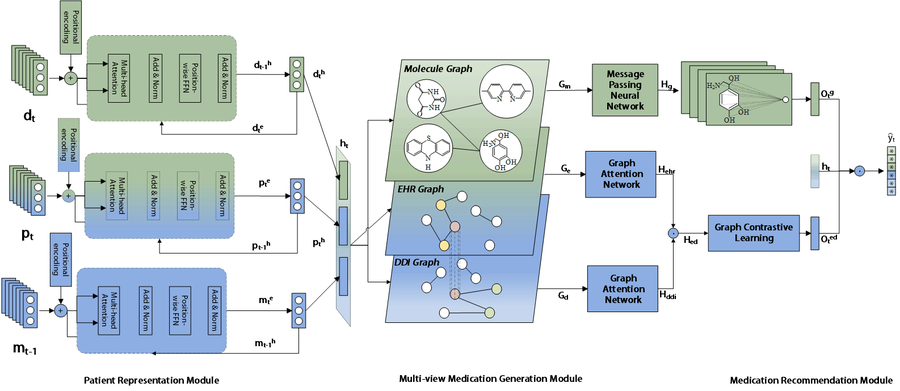
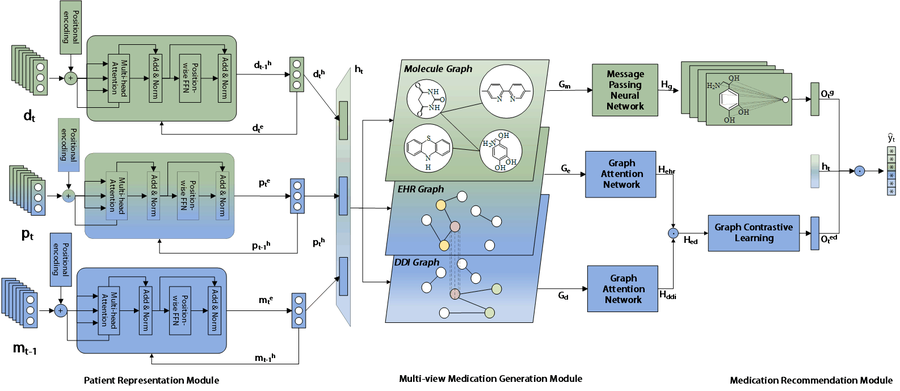
Correct the DNMDR author list, drop the figure frames and click links, refresh the ENCMed figure, and mark DG-MRM as Rank 1

diff --git a/publications/index.html b/publications/index.html
@@ -68,13 +68,12 @@
       </header>
       <section class="page__content" itemprop="text">
 <p>Journal and workshop papers, plus one manuscript currently under
-review. My name appears in bold in the author lists below; click a figure to see it full size.</p>
+review. My name appears in bold in the author lists below.</p>
 
 <h2>Peer-Reviewed Publications</h2>
 <div class="pub pub--with-fig">
   <div class="pub__fig">
-    <a href="../images/CLEAR_model.png" target="_blank" rel="noopener"><img src="../images/CLEAR_model.png"
-      alt="CLEAR model architecture" loading="lazy" /></a>
+    <img src="../images/CLEAR_model.png" alt="CLEAR model architecture" loading="lazy" />
   </div>
   <div class="pub__body">
     <div class="pub__title">CLEAR: Prototype-conditioned flow purification for LLM-based rumor detection with Dirichlet evidential learning</div>
@@ -84,19 +83,17 @@ review. My name appears in bold in the author lists below; click a figure to see
 </div>
 <div class="pub pub--with-fig">
   <div class="pub__fig">
-    <a href="../images/DNMDR_model.png" target="_blank" rel="noopener"><img src="../images/DNMDR_model.png"
-      alt="DNMDR model architecture" loading="lazy" /></a>
+    <img src="../images/DNMDR_model.png" alt="DNMDR model architecture" loading="lazy" />
   </div>
   <div class="pub__body">
     <div class="pub__title">DNMDR: Dynamic Networks and Multi-view Drug Representations for Safe Medication Recommendation <span class="badge-pill badge-pill--alt">first author</span></div>
-    <div class="pub__authors"><strong>G. Liu</strong>, Z. Liu, X. Yu, X. Li, X. Zheng, X. Fan</div>
+    <div class="pub__authors"><strong>G. Liu</strong>, X. Yu, Z. Liu, S. Liu, X. Li, X. Fan, X. Zheng</div>
     <div class="pub__venue"><em>Knowledge-Based Systems</em> <span class="badge-pill">IF 8.0</span>, 2025. <span class="pub__links">[<a href="https://doi.org/10.1016/j.knosys.2025.114327">DOI</a>]</span></div>
   </div>
 </div>
 <div class="pub pub--with-fig">
   <div class="pub__fig">
-    <a href="../images/ESWA_model.png" target="_blank" rel="noopener"><img src="../images/ESWA_model.png"
-      alt="Transformer-based medication recommendation with a multiple graph augmentation strategy model architecture" loading="lazy" /></a>
+    <img src="../images/ESWA_model.png" alt="Transformer-based medication recommendation with a multiple graph augmentation strategy model architecture" loading="lazy" />
   </div>
   <div class="pub__body">
     <div class="pub__title">Transformer-based medication recommendation with a multiple graph augmentation strategy <span class="badge-pill badge-pill--alt">co-author</span></div>
@@ -106,20 +103,18 @@ review. My name appears in bold in the author lists below; click a figure to see
 </div>
 <div class="pub pub--with-fig">
   <div class="pub__fig">
-    <a href="../images/DGMRM_poster.jpg" target="_blank" rel="noopener"><img src="../images/DGMRM_poster.jpg"
-      alt="DG-MRM model architecture" loading="lazy" /></a>
+    <img src="../images/DGMRM_poster.jpg" alt="DG-MRM model architecture" loading="lazy" />
   </div>
   <div class="pub__body">
     <div class="pub__title">DG-MRM: Dynamic Graph and Multi-view Medication Information for Recommending Medication Combination <span class="badge-pill badge-pill--alt">first author</span></div>
     <div class="pub__authors"><strong>G. Liu</strong>, Z. Liu, X. Yu, X. Li, X. Zheng, X. Fan</div>
-    <div class="pub__venue"><em>KDD-AIDSH</em>, 2024. <span class="pub__links">[<a href="https://openreview.net/forum?id=hdE8YZIAjw">OpenReview</a>]</span></div>
+    <div class="pub__venue"><em>KDD-AIDSH</em>, 2024. <span class="pub__rank">(Rank 1)</span> <span class="pub__links">[<a href="https://openreview.net/forum?id=hdE8YZIAjw">OpenReview</a>]</span></div>
   </div>
 </div>
 <h2>Under Review</h2>
 <div class="pub pub--with-fig">
   <div class="pub__fig">
-    <a href="../images/ENCMed_model.png" target="_blank" rel="noopener"><img src="../images/ENCMed_model.png"
-      alt="ENCMed model architecture" loading="lazy" /></a>
+    <img src="../images/ENCMed_model.png" alt="ENCMed model architecture" loading="lazy" />
   </div>
   <div class="pub__body">
     <div class="pub__title">ENCMed: A 3D-Encoder Framework with Neighbor Contrastive Learning for Safe Medication Recommendation <span class="badge-pill badge-pill--alt">first author</span></div>

diff --git a/cv/index.html b/cv/index.html
@@ -96,8 +96,7 @@ version</a></p>
 <h2>Publications</h2>
 <div class="pub pub--with-fig">
   <div class="pub__fig">
-    <a href="../images/ENCMed_model.png" target="_blank" rel="noopener"><img src="../images/ENCMed_model.png"
-      alt="ENCMed model architecture" loading="lazy" /></a>
+    <img src="../images/ENCMed_model.png" alt="ENCMed model architecture" loading="lazy" />
   </div>
   <div class="pub__body">
     <div class="pub__title">ENCMed: A 3D-Encoder Framework with Neighbor Contrastive Learning for Safe Medication Recommendation <span class="badge-pill badge-pill--alt">first author</span></div>
@@ -107,8 +106,7 @@ version</a></p>
 </div>
 <div class="pub pub--with-fig">
   <div class="pub__fig">
-    <a href="../images/CLEAR_model.png" target="_blank" rel="noopener"><img src="../images/CLEAR_model.png"
-      alt="CLEAR model architecture" loading="lazy" /></a>
+    <img src="../images/CLEAR_model.png" alt="CLEAR model architecture" loading="lazy" />
   </div>
   <div class="pub__body">
     <div class="pub__title">CLEAR: Prototype-conditioned flow purification for LLM-based rumor detection with Dirichlet evidential learning</div>
@@ -118,19 +116,17 @@ version</a></p>
 </div>
 <div class="pub pub--with-fig">
   <div class="pub__fig">
-    <a href="../images/DNMDR_model.png" target="_blank" rel="noopener"><img src="../images/DNMDR_model.png"
-      alt="DNMDR model architecture" loading="lazy" /></a>
+    <img src="../images/DNMDR_model.png" alt="DNMDR model architecture" loading="lazy" />
   </div>
   <div class="pub__body">
     <div class="pub__title">DNMDR: Dynamic Networks and Multi-view Drug Representations for Safe Medication Recommendation <span class="badge-pill badge-pill--alt">first author</span></div>
-    <div class="pub__authors"><strong>G. Liu</strong>, Z. Liu, X. Yu, X. Li, X. Zheng, X. Fan</div>
+    <div class="pub__authors"><strong>G. Liu</strong>, X. Yu, Z. Liu, S. Liu, X. Li, X. Fan, X. Zheng</div>
     <div class="pub__venue"><em>Knowledge-Based Systems</em> <span class="badge-pill">IF 8.0</span>, 2025. <span class="pub__links">[<a href="https://doi.org/10.1016/j.knosys.2025.114327">DOI</a>]</span></div>
   </div>
 </div>
 <div class="pub pub--with-fig">
   <div class="pub__fig">
-    <a href="../images/ESWA_model.png" target="_blank" rel="noopener"><img src="../images/ESWA_model.png"
-      alt="Transformer-based medication recommendation with a multiple graph augmentation strategy model architecture" loading="lazy" /></a>
+    <img src="../images/ESWA_model.png" alt="Transformer-based medication recommendation with a multiple graph augmentation strategy model architecture" loading="lazy" />
   </div>
   <div class="pub__body">
     <div class="pub__title">Transformer-based medication recommendation with a multiple graph augmentation strategy <span class="badge-pill badge-pill--alt">co-author</span></div>
@@ -140,13 +136,12 @@ version</a></p>
 </div>
 <div class="pub pub--with-fig">
   <div class="pub__fig">
-    <a href="../images/DGMRM_poster.jpg" target="_blank" rel="noopener"><img src="../images/DGMRM_poster.jpg"
-      alt="DG-MRM model architecture" loading="lazy" /></a>
+    <img src="../images/DGMRM_poster.jpg" alt="DG-MRM model architecture" loading="lazy" />
   </div>
   <div class="pub__body">
     <div class="pub__title">DG-MRM: Dynamic Graph and Multi-view Medication Information for Recommending Medication Combination <span class="badge-pill badge-pill--alt">first author</span></div>
     <div class="pub__authors"><strong>G. Liu</strong>, Z. Liu, X. Yu, X. Li, X. Zheng, X. Fan</div>
-    <div class="pub__venue"><em>KDD-AIDSH</em>, 2024. <span class="pub__links">[<a href="https://openreview.net/forum?id=hdE8YZIAjw">OpenReview</a>]</span></div>
+    <div class="pub__venue"><em>KDD-AIDSH</em>, 2024. <span class="pub__rank">(Rank 1)</span> <span class="pub__links">[<a href="https://openreview.net/forum?id=hdE8YZIAjw">OpenReview</a>]</span></div>
   </div>
 </div>
 <h2>Research Grants</h2>

diff --git a/index.html b/index.html
@@ -87,19 +87,17 @@ the <em>KDD-AIDSH</em> 2024 Conference. I have also been granted two patents and
 <div class="pub">
   <div class="pub__body">
     <div class="pub__title">DNMDR: Dynamic Networks and Multi-view Drug Representations for Safe Medication Recommendation <span class="badge-pill badge-pill--alt">first author</span></div>
-    <div class="pub__authors"><strong>G. Liu</strong>, Z. Liu, X. Yu, X. Li, X. Zheng, X. Fan</div>
+    <div class="pub__authors"><strong>G. Liu</strong>, X. Yu, Z. Liu, S. Liu, X. Li, X. Fan, X. Zheng</div>
     <div class="pub__venue"><em>Knowledge-Based Systems</em> <span class="badge-pill">IF 8.0</span>, 2025. <span class="pub__links">[<a href="https://doi.org/10.1016/j.knosys.2025.114327">DOI</a>]</span></div>
   </div>
 </div>
 <figure class="pub-figure">
-  <a href="images/DNMDR_model.png" target="_blank" rel="noopener">
-    <img src="images/DNMDR_model.png" alt="The DNMDR architecture: dynamic graph construction, longitudinal patient representation, multi-view drug representation and medication combination prediction" loading="lazy" />
-  </a>
+  <img src="images/DNMDR_model.png" alt="The DNMDR architecture: dynamic graph construction, longitudinal patient representation, multi-view drug representation and medication combination prediction" loading="lazy" />
   <figcaption><strong>Figure 1.</strong> The DNMDR architecture. A patient&rsquo;s visits are turned
   into a weighted dynamic graph and encoded longitudinally with GA-LSTM and GRU branches, while drugs
   are embedded from three views &mdash; molecular graphs (MPNN), an EHR graph and a DDI graph (GAT),
   and key&ndash;value pairs; the two representations are fused to predict the medication combination
-  under DDI, multi-label and loss constraints. Click the figure to view it full size.</figcaption>
+  under DDI, multi-label and loss constraints.</figcaption>
 </figure>
 
 <p class="view-all"><a href="publications/index.html">View all publications &rarr;</a></p>

diff --git a/assets/css/custom.css b/assets/css/custom.css
@@ -268,13 +268,13 @@
 }
 .pub__fig {
   /* one fixed box for every paper, so rows stay even whatever the aspect
-     ratio is (the DG-MRM poster is portrait, the architectures are wide) */
+     ratio is (the DG-MRM poster is portrait, the architectures are wide).
+     No frame: the figures sit directly on the page. */
   flex: 0 0 216px;
   width: 216px;
   height: 138px;
   box-sizing: border-box;
-  border: 1px solid #e2e6ea;
-  border-radius: 6px;
+  border: none;
   background: #fff;
   overflow: hidden;
 }
@@ -306,6 +306,9 @@
     max-height: 240px;
     margin-bottom: 0.7em;
   }
+}
+.pub__rank {
+  font-weight: 600;
 }
 .pub__links a {
   text-decoration: none;
@@ -524,7 +527,4 @@ html[data-theme="dark"] .pub {
 }
 html[data-theme="dark"] .pub__links a {
   border-bottom-color: #7d93a8;
-}
-html[data-theme="dark"] .pub__fig {
-  border-color: #6a6a6a;
 }
